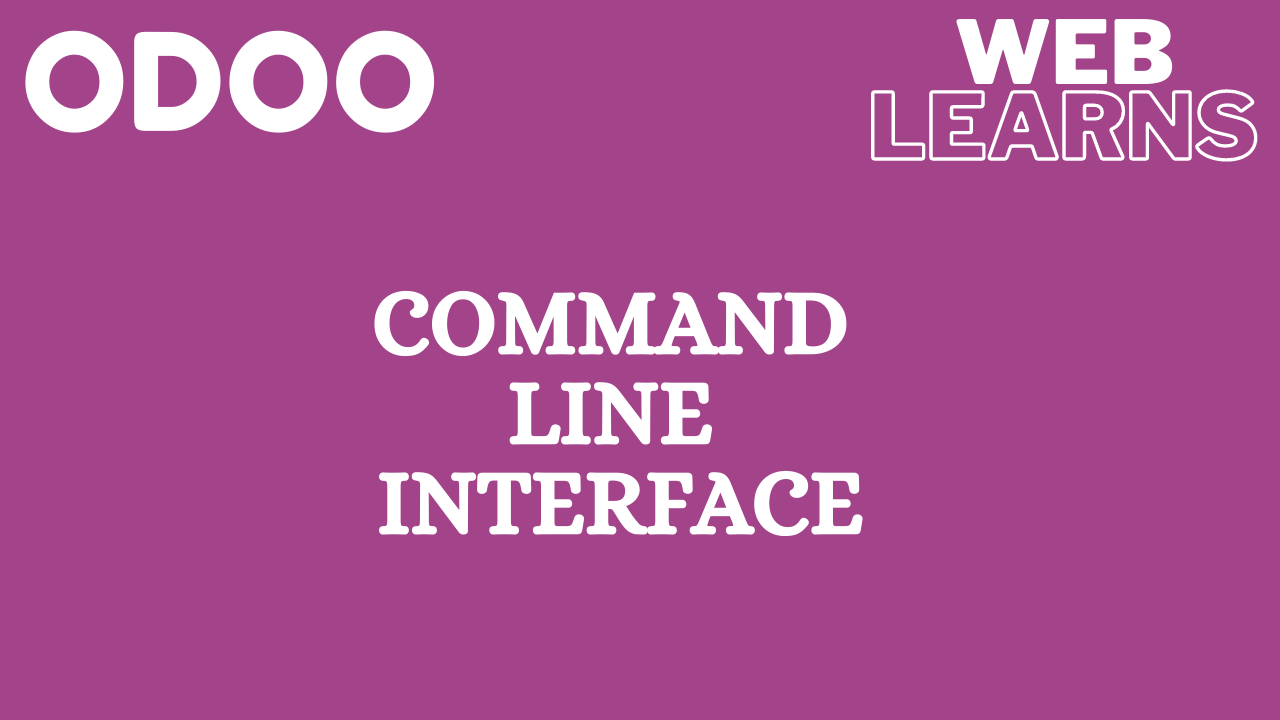
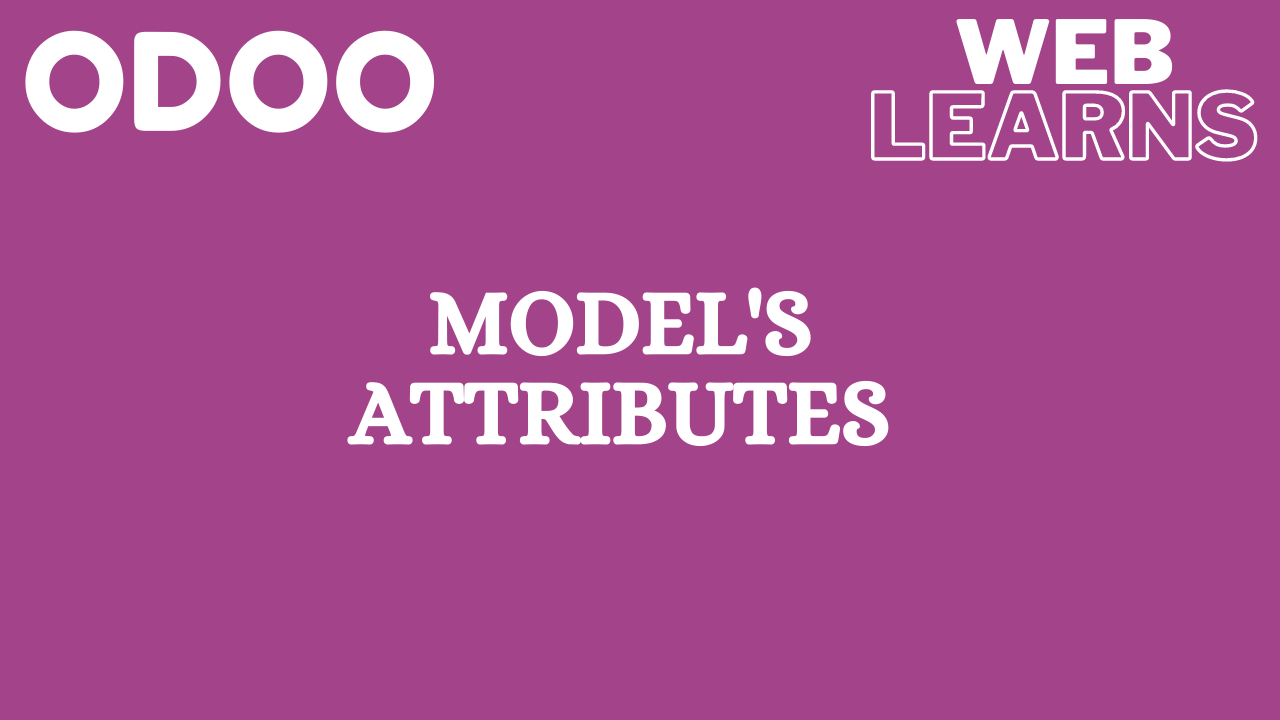
Add model's attribute module

Changed region(s): [[0.2812, 0.3972, 0.7188, 0.7639]]

diff --git a/odoo_model_attribute_tutorial/static/description/index.html b/odoo_model_attribute_tutorial/static/description/index.html
@@ -3,9 +3,9 @@
     <body data-spy="scroll" data-target="#navbar-example">
         <section class="oe_container" style="margin-left:100px;margin-right:100px;">
             <div class="oe_row oe_spaced" style="text-align: center;">
-                <h1 class="oe_slogan">Odoo CLI Commands Tutorial</h1>
+                <h1 class="oe_slogan">Odoo Model's Attribute Tutorial</h1>
                 <h2 class="oe_slogan">Description</h2>
-                <p>This is the primary module for Odoo cli commands tutorial, Which having all topics cover and in future this module having more updates.</p>
+                <p>You can learn about odoo model's useful attribute, Which having all topics cover and in future this module having more updates.</p>
                 <div class="oe_centeralign oe_websiteonly">
                     <h4 class="oe_slogan"><a href="https://www.youtube.com/channel/UCrty6O-6H3QNYpaS4lhsEcQ?sub_confirmation=1" target="_blank" style="color: #FFFFFF !important; border-radius: 0; background-color: red; border-color: #005ca7; font-weight: bold;">
                        <i class="fa fa-youtube"></i>

diff --git a/weblearns_odoo_tutorial/static/description/index.html b/weblearns_odoo_tutorial/static/description/index.html
@@ -3,7 +3,7 @@
     <body data-spy="scroll" data-target="#navbar-example">
         <section class="oe_container" style="margin-left:100px;margin-right:100px;">
             <div class="oe_row oe_spaced" style="text-align: center;">
-                <h1 class="oe_slogan">Odoo V14 Development Tutorial</h1>
+                <h1 class="oe_slogan">Odoo Development Tutorial</h1>
                 <h2 class="oe_slogan">Description</h2>
                 <p>This is the primary module for Odoo tutorial, Which having all topics cover and in future this module having more updates.</p>
                 <div class="oe_centeralign oe_websiteonly">

diff --git a/odoo_model_attribute_tutorial/__manifest__.py b/odoo_model_attribute_tutorial/__manifest__.py
@@ -1,10 +1,10 @@
 # -*- coding: utf-8 -*-
 {
-    'name': 'Odoo CLI Commands Tutorial',
+    'name': "Model's Attribute Tutorial",
     'version': '14.0.0.1.0',
-    'summary': 'Odoo CLI Commands Tutorial',
+    'summary': "Model's Attribute",
     'sequence': -111,
-    'description': 'Odoo CLI Commands Tutorial',
+    'description': "Model's attribute Tutorial",
     'category': 'Tutorials',
     'author': 'Weblearns',
     'maintainer': 'Weblearns',

diff --git a/weblearns_odoo_tutorial/__manifest__.py b/weblearns_odoo_tutorial/__manifest__.py
@@ -4,7 +4,7 @@
     'version': '14.0.0.1.0',
     'summary': 'Odoo Development Tutorial',
     'sequence': -111,
-    'description': 'Odoo 14 Development Tutorial',
+    'description': 'Odoo Development Tutorial',
     'category': 'Tutorials',
     'author': 'Weblearns',
     'maintainer': 'Weblearns',
